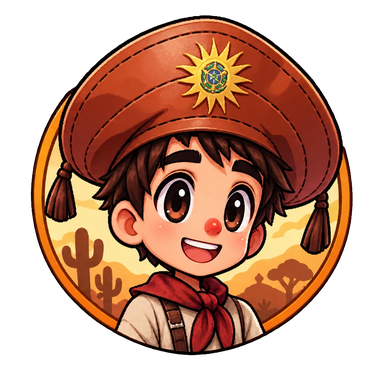
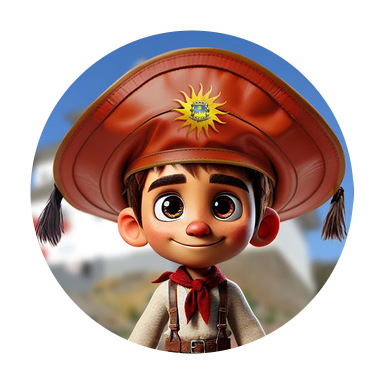
feat: retratos de perfil com a imagem oficial dos mascotes (PDF institucional)
Os retratos do menu e do diálogo agora usam a imagem da 1ª página do PDF
"MASCOTE INSTITUCIONAL" (assets/src/mascote-institucional-p1.png), recortada
em círculo em volta de cada rosto: José com o chapéu e as borlas inteiros,
Sakura com a flor. tools/build_portraits.py gera os dois (modo 'pdf',
padrão); o modo 'ilustracao' refaz os avatares desenhados.

diff --git a/index.html b/index.html
@@ -78,11 +78,11 @@
 
       <div class="title-hero">
         <button class="medallion-btn selected" id="select-male">
-          <div class="medallion-ring"><img src="assets/portrait-jose.png?v=30" alt="José" class="medallion-img" /></div>
+          <div class="medallion-ring"><img src="assets/portrait-jose.png?v=31" alt="José" class="medallion-img" /></div>
           <span class="medallion-name">JOSÉ</span>
         </button>
         <button class="medallion-btn" id="select-female">
-          <div class="medallion-ring"><img src="assets/portrait-sakura.png?v=30" alt="Sakura" class="medallion-img" /></div>
+          <div class="medallion-ring"><img src="assets/portrait-sakura.png?v=31" alt="Sakura" class="medallion-img" /></div>
           <span class="medallion-name">SAKURA</span>
         </button>
       </div>
@@ -113,7 +113,7 @@
     <!-- Diálogo (4ª parede) -->
     <div id="dialogue-box" class="dialogue-overlay hidden">
       <div class="rpg-dialogue-card">
-        <div class="dialogue-medallion"><img id="dialogue-avatar-img" src="assets/portrait-jose.png?v=30" alt="" class="medallion-img" /></div>
+        <div class="dialogue-medallion"><img id="dialogue-avatar-img" src="assets/portrait-jose.png?v=31" alt="" class="medallion-img" /></div>
         <div class="dialogue-content">
           <div id="dialogue-speaker" class="dialogue-speaker">JOSÉ</div>
           <p id="dialogue-text" class="dialogue-text"></p>
@@ -250,6 +250,6 @@
   <script src="js/i18n.js?v=30"></script>
   <script src="js/audio.js?v=30"></script>
   <script src="js/sprites.js?v=30"></script>
-  <script src="js/game.js?v=30"></script>
+  <script src="js/game.js?v=31"></script>
 </body>
 </html>

diff --git a/js/game.js b/js/game.js
@@ -449,7 +449,7 @@ function startGame(withIntro = true) {
 function showIntro() {
   const isJose = selectedCharacter === 'male';
   $('dialogue-speaker').textContent = isJose ? 'JOSÉ' : 'SAKURA';
-  $('dialogue-avatar-img').src = isJose ? 'assets/portrait-jose.png?v=30' : 'assets/portrait-sakura.png?v=30';
+  $('dialogue-avatar-img').src = isJose ? 'assets/portrait-jose.png?v=31' : 'assets/portrait-sakura.png?v=31';
   const full = t('dialogue_' + selectedCharacter);
   $('dialogue-text').textContent = '';
   $('dialogue-box').classList.remove('hidden');

diff --git a/tools/build_portraits.py b/tools/build_portraits.py
@@ -1,11 +1,18 @@
-"""Gera assets/portrait-sakura.png e assets/portrait-jose.png a partir de assets/src/portraits-original.webp.
+"""Gera assets/portrait-sakura.png e assets/portrait-jose.png.
+
+Fonte padrao ('pdf'): a imagem da 1a pagina do PDF "MASCOTE INSTITUCIONAL"
+(assets/src/mascote-institucional-p1.png), recortada em circulo em volta de cada rosto.
+Fonte alternativa ('ilustracao'): assets/src/portraits-original.webp (avatares desenhados).
+Uso: python tools/build_portraits.py [pdf|ilustracao]
+
+Modo 'ilustracao':
 
 Cada avatar e recortado num quadrado centrado no proprio circulo, com folga de 19% do raio
 para o cabelo/chapeu que "saltam" para fora do circulo (o CSS deixa essa parte aparecer
 por cima do aro dourado). Alfa limpo: sem halo semitransparente.
-Uso: python tools/build_portraits.py
 """
 import os
+import sys
 
 import numpy as np
 from PIL import Image
@@ -13,6 +20,9 @@ from scipy import ndimage as ndi
 
 ROOT = os.path.dirname(os.path.dirname(os.path.abspath(__file__)))
 SRC = os.path.join(ROOT, 'assets', 'src', 'portraits-original.webp')
+SRC_PDF = os.path.join(ROOT, 'assets', 'src', 'mascote-institucional-p1.png')
+# circulo de cada rosto na imagem do PDF: (centro x, centro y, raio) - inclui o chapeu inteiro do José
+PDF_CIRCLES = {'sakura': (244, 345, 186), 'jose': (696, 345, 272)}
 OVERFLOW = 1.19   # metade do lado do quadrado = 1.19 x raio do circulo
 SIZE = 384
 
@@ -24,7 +34,25 @@ def fit_circle(xs, ys):
     return cx, cy, np.sqrt(c + cx ** 2 + cy ** 2)
 
 
-def main():
+def main_pdf():
+    src = Image.open(SRC_PDF).convert('RGBA')
+    d = round(SIZE / OVERFLOW)               # diametro do circulo no retrato (mesma geometria do CSS)
+    off = (SIZE - d) // 2
+    yy, xx = np.mgrid[0:SIZE, 0:SIZE]
+    rr = np.hypot(xx + 0.5 - SIZE / 2, yy + 0.5 - SIZE / 2)
+    alpha = np.clip(d / 2 - rr + 0.5, 0, 1)  # borda do circulo suavizada
+    for name, (cx, cy, r) in PDF_CIRCLES.items():
+        face = src.crop((cx - r, cy - r, cx + r, cy + r)).resize((d, d), Image.LANCZOS)
+        out = Image.new('RGBA', (SIZE, SIZE), (0, 0, 0, 0))
+        out.paste(face, (off, off))
+        a = np.array(out)
+        a[..., 3] = (alpha * 255).astype(np.uint8)
+        path = os.path.join(ROOT, 'assets', f'portrait-{name}.png')
+        Image.fromarray(a).save(path, optimize=True)
+        print(f'{name}: circulo ({cx},{cy}) r={r} -> {os.path.relpath(path, ROOT)}')
+
+
+def main_ilustracao():
     src = np.array(Image.open(SRC).convert('RGBA'))
     a = src[..., 3].astype(float)
     a[a < 40] = 0
@@ -52,4 +80,4 @@ def main():
 
 
 if __name__ == '__main__':
-    main()
+    (main_ilustracao if sys.argv[1:] == ['ilustracao'] else main_pdf)()
